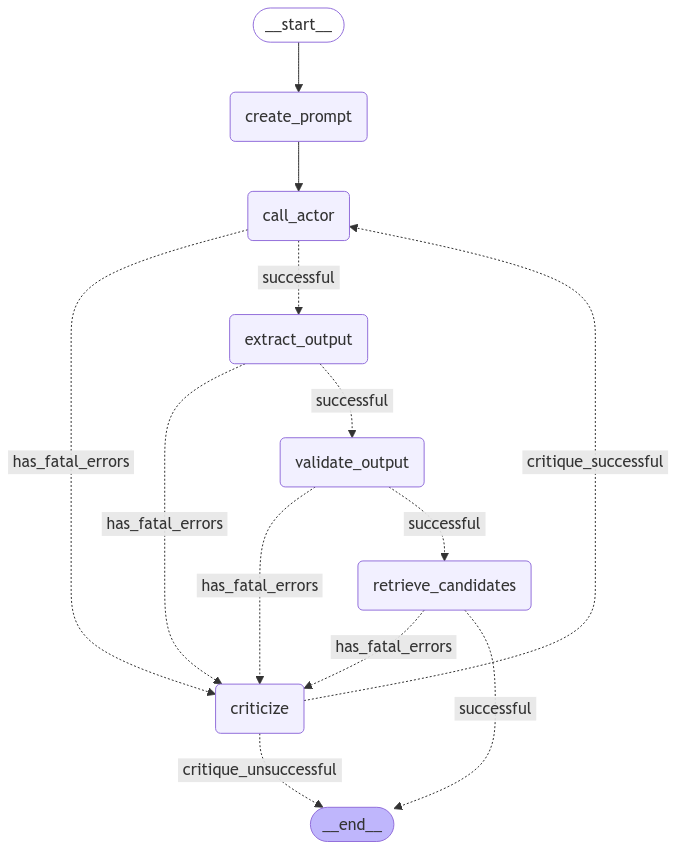
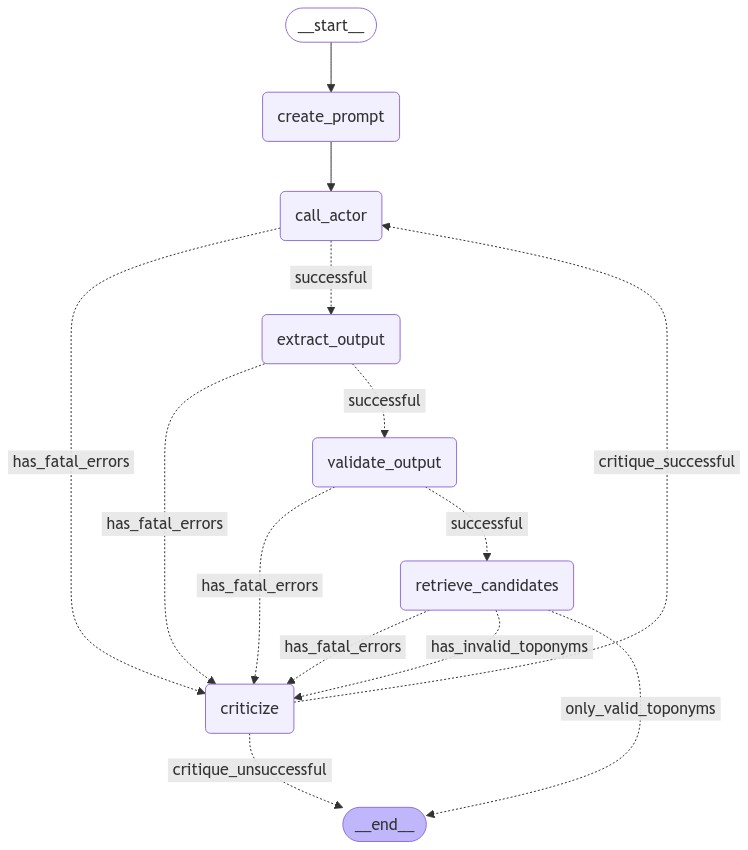
Backup commit

diff --git a/modules/reflective_candidate_generation.py b/modules/reflective_candidate_generation.py
@@ -23,13 +23,15 @@ string_seperator = "\n\n----------------------------------------\n"
 
 
 class ReflectiveCandidateGenerator:
-    def __init__(self, llm_model_name: str = "meta-llama-3.1-8b-instruct"):
+    def __init__(self,
+                 actor_model_name: str = "meta-llama-3.1-8b-instruct",
+                 critic_model_name: str = "meta-llama-3.1-8b-instruct"):
         load_dotenv()
         self.working_memory = WorkingMemory()
         self.data_handler = self.working_memory.few_shot_handler.data_handler
         self.llm_handler = ChatAIHandler()
-        self.llm = self.llm_handler.get_model(llm_model_name)
-        self.critic_llm = self.llm_handler.get_model("mistral-large-instruct")
+        self.llm = self.llm_handler.get_model(actor_model_name)
+        self.critic_llm = self.llm_handler.get_model(critic_model_name)
         self.validator = ArticleSyntaxValidator()
         self.geonames = GeoNamesAPI()
         self.call_times = []
@@ -54,7 +56,7 @@ class ReflectiveCandidateGenerator:
         # First check in which state of the reflective candidate generation we are
         if state.reflection_phase == ReflectionPhase.INITIAL_ACTOR_GENERATION:
             prompt = state.initial_prompt
-        elif state.reflection_phase == ReflectionPhase.REFLECTED_ACTOR_GENERATION:
+        elif state.reflection_phase == ReflectionPhase.ACTOR_RETRY_AFTER_FATAL_ERROR:
             prompt = state.reflected_prompt
         else:
             raise ValueError(f"Invalid reflection phase: {state.reflection_phase}")
@@ -106,14 +108,20 @@ class ReflectiveCandidateGenerator:
         return self.geonames.retrieve_candidates(state)
 
     def criticize(self, state: CandidateGenerationState) -> CandidateGenerationState:
-        if state.reflection_phase == ReflectionPhase.REFLECTED_ACTOR_GENERATION:
+        if state.reflection_phase == ReflectionPhase.ACTOR_RETRY_AFTER_FATAL_ERROR and state.fatal_errors:
             state.fatal_errors.append(Error(
                 execution_step=ExecutionStep.CRITIC,
                 error_message="Critique did not solve fatal errors. Exiting."
             ))
             return state
+        elif state.reflection_phase == ReflectionPhase.ACTOR_RETRY_ON_INVALID_TOPONYMS and state.invalid_toponyms:
+            return state             # still some invalid toponyms, but not fatal
+        elif state.fatal_errors:
+            state.reflection_phase = ReflectionPhase.CRITIC_GENERATION_FOR_FATAL_ERRORS
         else:
-            state.reflection_phase = ReflectionPhase.CRITIC_GENERATION
+            state.reflection_phase = ReflectionPhase.CRITIC_GENERATION_FOR_INVALID_TOPONYMS
+
+        # TODO: Fatal error critic phase
 
         def _generate_initial_generation_prompt_text() -> str:
             original_prompt_text = state.initial_prompt.format(
@@ -122,15 +130,13 @@ class ReflectiveCandidateGenerator:
                 input__toponym_list=str(state.toponyms)
             )
             generated_output = str(state.raw_output.content)
-            fatal_errors = str([error.model_dump() for error in state.fatal_errors])
 
             initial_generation_prompt_text = (
                 f"Original Prompt Text: \n {original_prompt_text + string_seperator}"
-                f"Generated Output: \n {generated_output+ string_seperator}\n\n"
-                f"Fatal Errors: \n {fatal_errors}")
+                f"Generated Output: \n {generated_output}")
             return initial_generation_prompt_text
 
-        def _generate_critic_prompt() -> PromptTemplate:
+        def _generate_critic_prompt_for_fatal_errors() -> PromptTemplate:
             critic_system_prompt = (
                 "System: \n"
                 "You are a constructive critic for the actor LLM which generated the output below. Please analyze the "
@@ -138,12 +144,39 @@ class ReflectiveCandidateGenerator:
                 "will be directly used to guide the actor LLM to generate better outputs in the future. Only provide "
                 "feedback to the errors, and be as concise as possible."
                 # Actionable feedback, c.g. Madaan et al. (2023) and Lauscher et al. (2024)
+                # TODO: creation-step specific feedback instructions for fatal errors
+            )
+            initial_generation_prompt = _generate_initial_generation_prompt_text()
+            fatal_errors = str([error.model_dump() for error in state.fatal_errors])
+            critic_instruction = "Your feedback:\n"
+
+            critic_prompt_text = (critic_system_prompt + string_seperator +
+                                  initial_generation_prompt + string_seperator +
+                                  f"Fatal Errors: \n {fatal_errors}" + string_seperator +
+                                  critic_instruction)
+            return PromptTemplate(
+                template=critic_prompt_text,
+                template_format="mustache",
+                input_variables=[]
+            )
+
+        def _generate_critic_prompt_for_invalid_toponyms() -> PromptTemplate:
+            critic_system_prompt = (
+                "System: \n"
+                "You are a constructive critic for the actor LLM which generated the output below. Please analyze the "
+                "invalid toponyms and corresponding errors in the generated output and provide actionable feedback to "
+                "fix them. Your feedback will be directly used to guide the actor LLM to generate better outputs in "
+                "the future. Only provide feedback to the invalid toponyms, not the others, and use the valid toponyms "
+                "as a reference. Be as concise as possible."
+                # Actionable feedback, c.g. Madaan et al. (2023) and Lauscher et al. (2024)
             )
             initial_generation_prompt = _generate_initial_generation_prompt_text()
             critic_instruction = "Your feedback:\n"
 
             critic_prompt_text = (critic_system_prompt + string_seperator +
                                   initial_generation_prompt + string_seperator +
+                                  f"Valid Toponyms with Candidates: \n {str(state.toponyms_with_candidates)}" + string_seperator +
+                                  f"Incorrect Toponyms with errors: \n {str(state.invalid_toponyms)}" + string_seperator +
                                   critic_instruction)
             return PromptTemplate(
                 template=critic_prompt_text,
@@ -159,11 +192,15 @@ class ReflectiveCandidateGenerator:
             )
             initial_generation_prompt_text = _generate_initial_generation_prompt_text()
             feedback = f"Actionable feedback by the critic: \n{str(state.critic_feedback.content)}"
-            reflective_actor_instruction_prompt_text = "Your new output in plain JSON:\n"
+            reflective_actor_instruction_prompt_text = (
+                "Now generate the search arguments ONLY for the invalid toponyms, NOT for the valid ones."
+                "Your new output in plain JSON:\n"
+            )
 
             reflected_prompt_text = (reflective_actor_system_prompt + string_seperator +
                                      initial_generation_prompt_text + string_seperator +
                                      feedback + string_seperator +
+                                        #todo include invalid toponyms !
                                      reflective_actor_instruction_prompt_text)
             return PromptTemplate(
                 template=reflected_prompt_text,
@@ -176,7 +213,10 @@ class ReflectiveCandidateGenerator:
             return lang_chain.invoke({})
 
         # compile final critic prompt and chain
-        state.critic_prompt = _generate_critic_prompt()
+        if state.fatal_errors:
+            state.critic_prompt = _generate_critic_prompt_for_fatal_errors()
+        else:
+            state.critic_prompt = _generate_critic_prompt_for_invalid_toponyms()
         chain = state.critic_prompt | self.critic_llm
 
         try:
@@ -184,10 +224,10 @@ class ReflectiveCandidateGenerator:
             critic_feedback = _invoke_critic(chain)
             state.critic_feedback = AIMessage(**critic_feedback.model_dump())
             state.reflected_prompt = _generate_reflected_actor_prompt()
-            state.reflection_phase = ReflectionPhase.REFLECTED_ACTOR_GENERATION
+            state.reflection_phase = ReflectionPhase.ACTOR_RETRY_AFTER_FATAL_ERROR
 
-            # Reset the state for the next iteration of the reflective candidate generation
-            state.parsed_output = state.valid_toponyms = state.duplicate_toponyms = state.toponyms_with_candidates = state.fatal_errors = []
+            # Reset fatal errors for the next iteration of the reflective candidate generation
+            state.fatal_errors = []
             return state
 
         except Exception as e:
@@ -206,6 +246,14 @@ class ReflectiveCandidateGenerator:
             return "has_fatal_errors"
         else:
             return "successful"
+
+    def has_invalid_toponyms(selfself, state: CandidateGenerationState) -> str:
+        if state.fatal_errors:
+            return "has_fatal_errors"
+        else:
+            if state.invalid_toponyms:
+                return "has_invalid_toponyms"
+            return "only_valid_toponyms"
 
     def critique_was_successful(self, state: CandidateGenerationState) -> str:
         if state.fatal_errors:
@@ -251,10 +299,11 @@ class ReflectiveCandidateGenerator:
                                                 "successful": "retrieve_candidates"
                                             })
         graph_builder.add_conditional_edges("retrieve_candidates",
-                                            self.has_fatal_errors,
+                                            self.has_invalid_toponyms,
                                             {
                                                 "has_fatal_errors": "criticize",
-                                                "successful": END
+                                                "has_invalid_toponyms": "criticize",
+                                                "only_valid_toponyms": END
                                             })
         graph_builder.add_conditional_edges("criticize",
                                             self.critique_was_successful,
@@ -325,13 +374,14 @@ class ReflectiveCandidateGenerator:
 
 if __name__ == "__main__":
     generator = ReflectiveCandidateGenerator(
-        llm_model_name="meta-llama-3.1-8b-instruct"
+        actor_model_name="meta-llama-3.1-8b-instruct",
+        critic_model_name="meta-llama-3.1-8b-instruct"
     )
-    #generator.generate_graph_image()
-    start = time.time()
-    generator.reflectively_generate_candidates_for_evaluation(
-        seed=42,
-        nof_articles=100,
-        output_dir=f'output/reflective_candidate_generation/llama_8b_with_mistral-large_critic/{pd.Timestamp.now().strftime("%Y%m%d")}_seed_42_100_articles'
-    )
-    print(f"Time taken: {time.time() - start} seconds.")
+    generator.generate_graph_image()
+    # start = time.time()
+    # generator.reflectively_generate_candidates_for_evaluation(
+    #     seed=42,
+    #     nof_articles=100,
+    #     output_dir=f'output/reflective_candidate_generation/llama_8b_with_mistral-large_critic/{pd.Timestamp.now().strftime("%Y%m%d")}_seed_42_100_articles'
+    # )
+    # print(f"Time taken: {time.time() - start} seconds.")

diff --git a/agent_components/environment/internal_tools.py b/agent_components/environment/internal_tools.py
@@ -8,6 +8,7 @@ from langchain_core.messages import AIMessage
 
 from agent_components.llms.chatAI import ChatAIHandler
 from agent_components.memory.working_memory import WorkingMemory
+from models.candidates import ReflectionPhase
 from models.errors import Error, ExecutionStep
 from models.llm_output import ToponymSearchArguments, ToponymSearchArgumentsWithErrors, ValidatedOutput, LLMOutput
 
@@ -216,15 +217,26 @@ class ArticleSyntaxValidator:
         self.geonames_syntax_validator = SearchParameterSyntaxValidator()
 
     def validate_toponyms_of_article(self, llm_output: LLMOutput) -> ValidatedOutput:
-        validated_output = ValidatedOutput(**llm_output.model_dump())
-
-        # needed for revision: set invalid to empty list
-        validated_output.invalid_toponyms = []
-
-        if validated_output.fatal_errors:
-            return validated_output
         try:
-            # First, we all parsed toponyms can either have valid syntax, invalid syntax, or be duplicates
+            validated_output = ValidatedOutput(**llm_output.model_dump())
+
+            # needed in baseline generation chain, not in agent graph
+            if validated_output.fatal_errors:
+                return validated_output
+
+            temp_gt_toponyms = [toponym.casefold() for toponym in validated_output.toponyms]
+
+            in_reflection_phase = False
+            if hasattr(validated_output, 'reflection_phase'):  # needed in candidate generation chain, not in agent graph
+                if validated_output.reflection_phase == ReflectionPhase.ACTOR_RETRY_ON_INVALID_TOPONYMS:
+                    in_reflection_phase = True
+                    for toponym_with_search_params in validated_output.parsed_output:
+                        toponym_with_search_params.generated_by_retry = True
+                    already_correct_toponyms = [topo.toponym.casefold() for topo in itertools.chain(
+                        validated_output.valid_toponyms, validated_output.duplicate_toponyms)]
+                    temp_gt_toponyms = temp_gt_toponyms - already_correct_toponyms
+
+            # First, all parsed toponyms can either have valid syntax, invalid syntax, or be duplicates
             for toponym_with_search_params in llm_output.parsed_output:
                 if toponym_with_search_params.params:
                     is_valid, errors = self.geonames_syntax_validator.validate(toponym_with_search_params.params)
@@ -253,13 +265,17 @@ class ArticleSyntaxValidator:
                         ]
                     ))
 
-            # if len(validated_output.toponyms) > 20 and len(validated_output.duplicate_toponyms) > 0:
-            #     print("hard example")
+            # Second, we need to check if the toponyms with valid syntax are actually in the article (both for valid
+            # and duplicate toponyms) create local copies of lists to avoid changing the original lists and allow
+            # stable iteration
 
-            # Second, we need to check if the toponyms with valid syntax are actually in the article (both for valid and duplicate toponyms)
-            temp_gt_toponyms = [toponym.casefold() for toponym in validated_output.toponyms]
-            valid_toponyms = validated_output.valid_toponyms.copy()
-            duplicate_toponyms = validated_output.duplicate_toponyms.copy()
+            if not in_reflection_phase:
+                valid_toponyms = validated_output.valid_toponyms.copy()
+                duplicate_toponyms = validated_output.duplicate_toponyms.copy()
+            else:
+                valid_toponyms = [valid for valid in validated_output.valid_toponyms if valid.generated_by_retry]
+                duplicate_toponyms = [duplicate for duplicate in validated_output.duplicate_toponyms if duplicate.generated_by_retry]
+
             for generation in itertools.chain(valid_toponyms, duplicate_toponyms):
                 if generation.toponym.casefold() in temp_gt_toponyms:
                     temp_gt_toponyms.remove(generation.toponym.casefold())
@@ -302,8 +318,6 @@ class ArticleSyntaxValidator:
             temp_toponym_list = [temp_toponym.toponym.casefold() for temp_toponym in (validated_output.valid_toponyms +
                                                                                       validated_output.duplicate_toponyms +
                                                                                       validated_output.invalid_toponyms)]
-            if len(temp_toponym_list) != len(validated_output.parsed_output): # indicates most probably a coding error
-                print("FATAL ERROR: PARSING OR VALIDATION ERROR for article ", validated_output.article_id)
             if len(temp_toponym_list) < len(validated_output.toponyms):  # too few toponyms generated
                 for mention in validated_output.toponyms:
                     if mention.casefold() not in temp_toponym_list:
@@ -318,6 +332,7 @@ class ArticleSyntaxValidator:
                         ))
                     else:
                         temp_toponym_list.remove(mention.casefold())
+
 
             # just for code validation
             nof_valid_invalid_duplicate = len([temp_toponym.toponym for temp_toponym in (validated_output.valid_toponyms +

diff --git a/agent_components/environment/external_tools.py b/agent_components/environment/external_tools.py
@@ -1,4 +1,3 @@
-import json
 import os
 import pickle
 import urllib.parse
@@ -25,6 +24,7 @@ class GeoNamesAPI:
         return response.json()
 
     def retrieve_candidates(self, validated_output: ValidatedOutput) -> CandidateGenerationOutput:
+        #todo only for new toponyms
         candidate_generation_output = CandidateGenerationOutput(**validated_output.model_dump())
         try:
             for toponym_to_search_for in validated_output.valid_toponyms:
@@ -50,6 +50,8 @@ class GeoNamesAPI:
                         break
             return candidate_generation_output
         except Exception as e:
+            # TODO: that's shit, because probably the generation was valid, but there is an issue with the external API
+            # TODO: --> how to handle that?
             candidate_generation_output.fatal_errors = [Error(execution_step=ExecutionStep.GEOAPI,
                                                               error_message=str(e))]
             return candidate_generation_output

diff --git a/models/llm_output.py b/models/llm_output.py
@@ -12,6 +12,9 @@ class ToponymSearchArguments(BaseModel):
                                    description="The search arguments to use for the GeoNames API call")
     duplicate_of: Optional[str] = Field(default=None,
                                         description="The toponym to reference if the toponym is duplicated")
+    generated_by_retry: Optional[bool] = Field(default=False,
+                                               description="Whether the toponym was generated by retrying after an "
+                                                           "error")
 
 class ToponymSearchArgumentsWithErrors(ToponymSearchArguments):
     errors_per_toponym: List[Error] = Field(description="List of errors in the search arguments of one toponym")

diff --git a/models/candidates.py b/models/candidates.py
@@ -11,8 +11,10 @@ from models.llm_output import ToponymSearchArguments, ValidatedOutput
 # enum of the possible phases of the reflective candidate generation
 class ReflectionPhase(str, Enum):
     INITIAL_ACTOR_GENERATION = "initial_actor_generation"
-    CRITIC_GENERATION = "critic_generation"
-    REFLECTED_ACTOR_GENERATION = "reflected_actor_generation"
+    CRITIC_GENERATION_FOR_FATAL_ERRORS = "critic_generation_for_fatal_errors"
+    CRITIC_GENERATION_FOR_INVALID_TOPONYMS = "critic_generation_for_invalid_toponyms"
+    ACTOR_RETRY_AFTER_FATAL_ERROR = "actor_retry_after_fatal_error"
+    ACTOR_RETRY_ON_INVALID_TOPONYMS = "actor_retry_on_invalid_toponyms"
 
 
 class ToponymWithCandidates(BaseModel):
